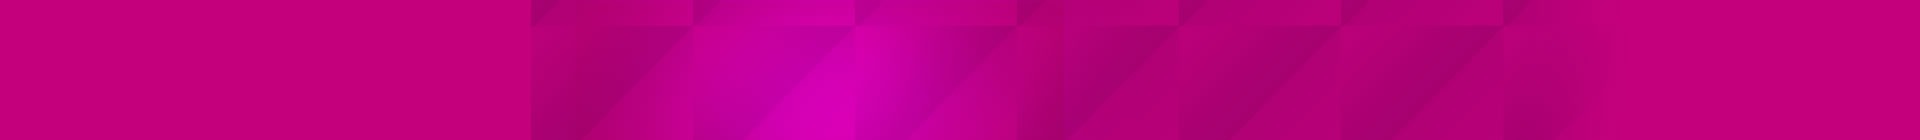
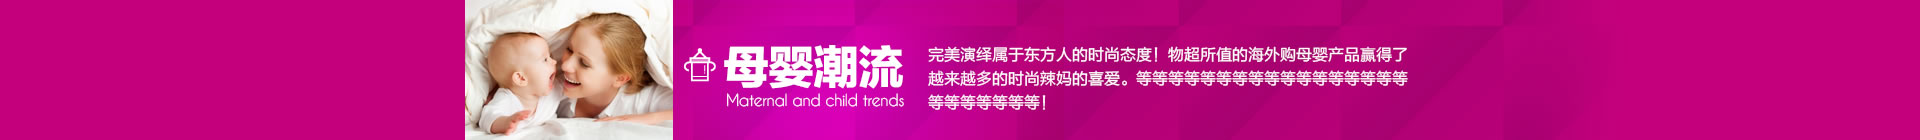
[dev]加入代码调整图片

Changed region(s): [[0.2188, 0.0, 0.75, 1.0]]

diff --git a/app/index.html b/app/index.html
@@ -11,27 +11,10 @@
   <div class="banner" style="background: url(img/banner.jpg) no-repeat center;"></div>
   <!--母婴潮流-->
   <div class="m1">
-    <div class="mh ">
-      <div class="pm clearfix">
-        <img class="fl" src="img/m1-img.jpg">
-        <div class="hc1 fl">
-          <h2>母婴潮流</h2>
-          <p class="p1">Maternal and child trends</p>
-        </div>
-        <p class="p2 fl">完美演绎属于东方人的时尚态度！物超所值的海外购母婴产品赢得了越来越多的时尚辣妈的喜爱。等等等等等等等等等等等等等等等等等等等等等等等等！</p>
-      </div>
-
+    <div class="mh" style="background: url(http://localhost:9000/img/m1-mh.jpg) no-repeat center;">
     </div>
     <div class="mb pm">
-      <div class="mr1 clearfix">
-        <div class="buddle buddle1">XXXXX<br />XXXX</div>
-        <div class="buddle buddle2">XXXXX<br />XXXX</div>
-        <div class="buddle buddle3">XXXXX<br />XXXX</div>
-        <div class="u1 fl">
-          <div class="ur1">销量NO.1</div>
-          <div class="ur2">被称为XXXXX</div>
-          <div class="ur3">XXX进口原料</div>
-        </div>
+      <div class="mr1 clearfix" style="background: url(http://localhost:9000/img/m1-mr1.jpg) no-repeat;">
         <div class="product fr">
           <div class="product-r1">
             <a href=""><img src="img/product.jpg" alt="" ></a><span></span>

diff --git a/app/css/index.css b/app/css/index.css
@@ -1,11 +1,11 @@
 .banner{
 	height: 500px;
-	/*background:url(../img/banner.jpg) no-repeat center;*/
+	background:url(../img/banner.jpg) no-repeat center;
 	border-bottom: 14px solid #16191B;
 }
 /*母婴潮流*/
 .m1 .mh{
-	background:#c5007d url(../img/m1-mh.jpg) no-repeat center;
+	/*background:#c5007d url(../img/m1-mh.jpg) no-repeat center;*/
 	color: #fff;
 	height: 140px;
 	margin-bottom: 20px;
@@ -37,7 +37,7 @@
 }
 
 .m1 .mr1{
-	background: #a20e84 url(../img/m1-mr1.png) no-repeat 265px 132px;
+	/*background: #a20e84 url(../img/m1-mr1.jpg) no-repeat;*/
 	margin-bottom: 14px;
 	padding: 33px 23px 45px;
 	position: relative;
@@ -129,7 +129,7 @@
 	background:url(../img/m2-hc1.png) no-repeat 5px 55px;
 }
 .m2 .mr1{
-	background: #ad3f10 url(../img/m2-mr1.png) no-repeat 218px 192px;
+	background: #ad3f10 url(../img/m2-mr1.jpg) no-repeat;
 }
 .m2 .buddle{
 	color:#af6126;
@@ -158,7 +158,7 @@
 	background:url(../img/m3-hc1.png) no-repeat 17px 49px;
 }
 .m3 .mr1{
-	background: #23A0B6 url(../img/m2-mr1.png) no-repeat 218px 192px;
+	background: #23A0B6 url(../img/m3-mr1.jpg) no-repeat;
 }
 .m3 .buddle{
 	color:#23A0B6;

diff --git a/docs/[dev]图片描述.md b/docs/[dev]图片描述.md
@@ -1,0 +1,9 @@
+## 图片描述
+
+1. 头图，放在顶部的图片[链接](https://raw.githubusercontent.com/leewind/HT-campagin-sys/master/static-img/img/banner.jpg)
+2. 楼层第一张顶图，[链接](https://raw.githubusercontent.com/leewind/HT-campagin-sys/master/static-img/img/m1-mh.jpg)
+3. 楼层宣传图，[链接](https://raw.githubusercontent.com/leewind/HT-campagin-sys/master/static-img/img/m1-mr1.jpg)
+4. 楼层宣传产品，[链接](https://raw.githubusercontent.com/leewind/HT-campagin-sys/master/static-img/img/product.jpg)
+5. 楼层产品，[链接](https://raw.githubusercontent.com/leewind/HT-campagin-sys/master/static-img/img/product.jpg)
+
+**注**楼层n只要替换图片的数字就可以了
